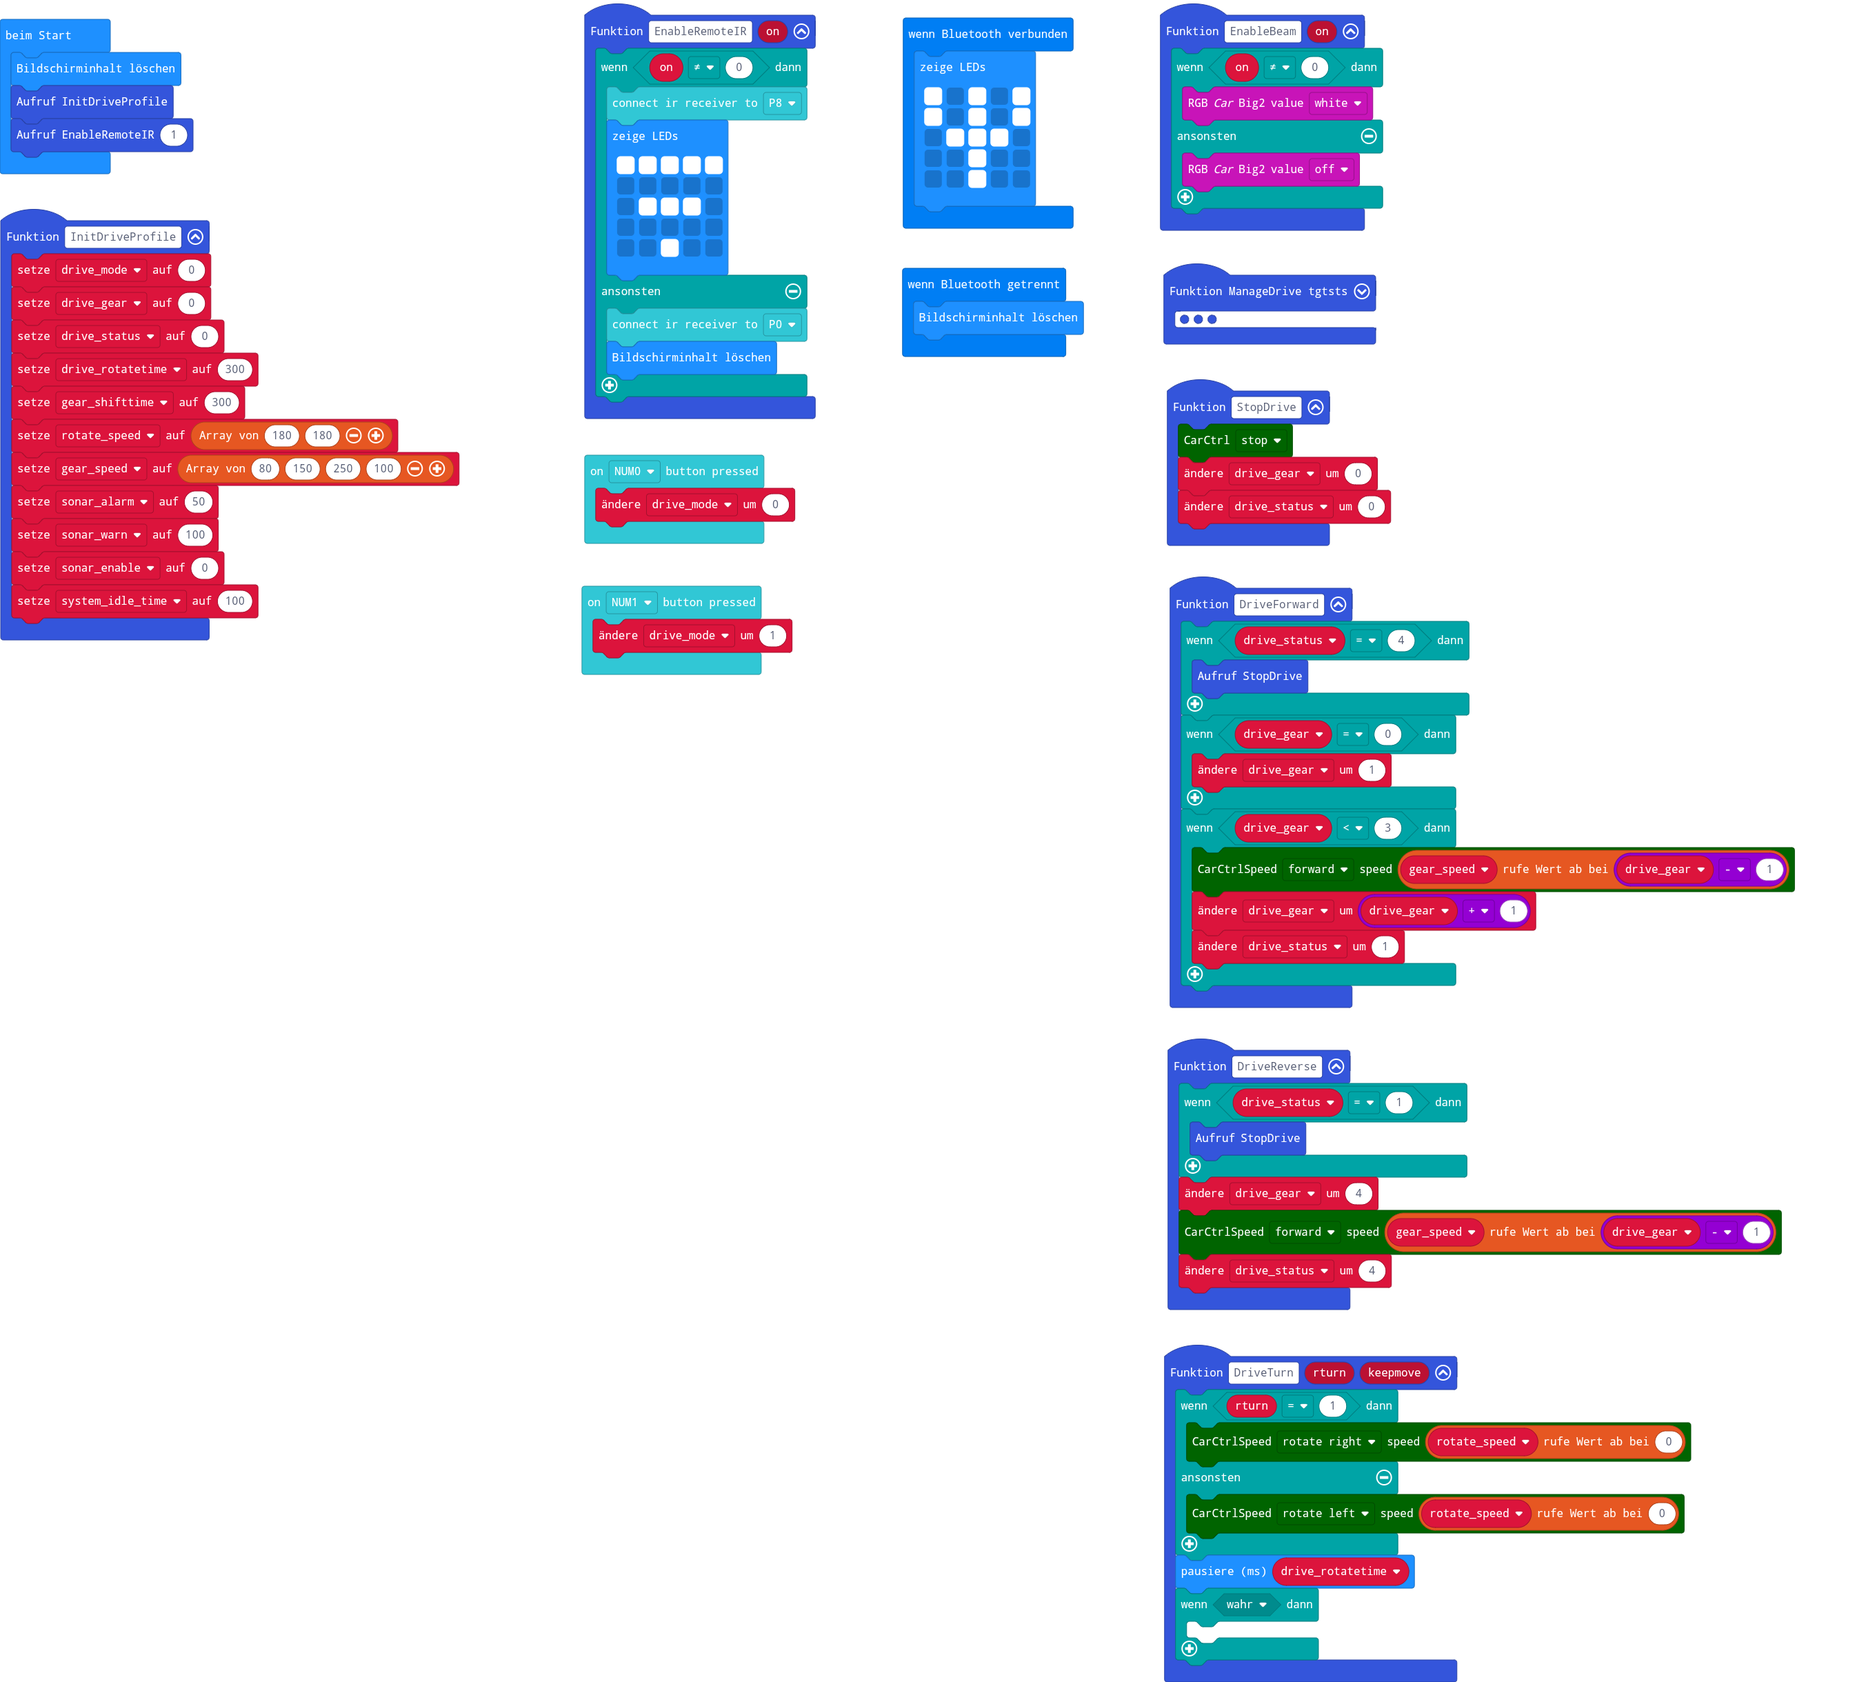
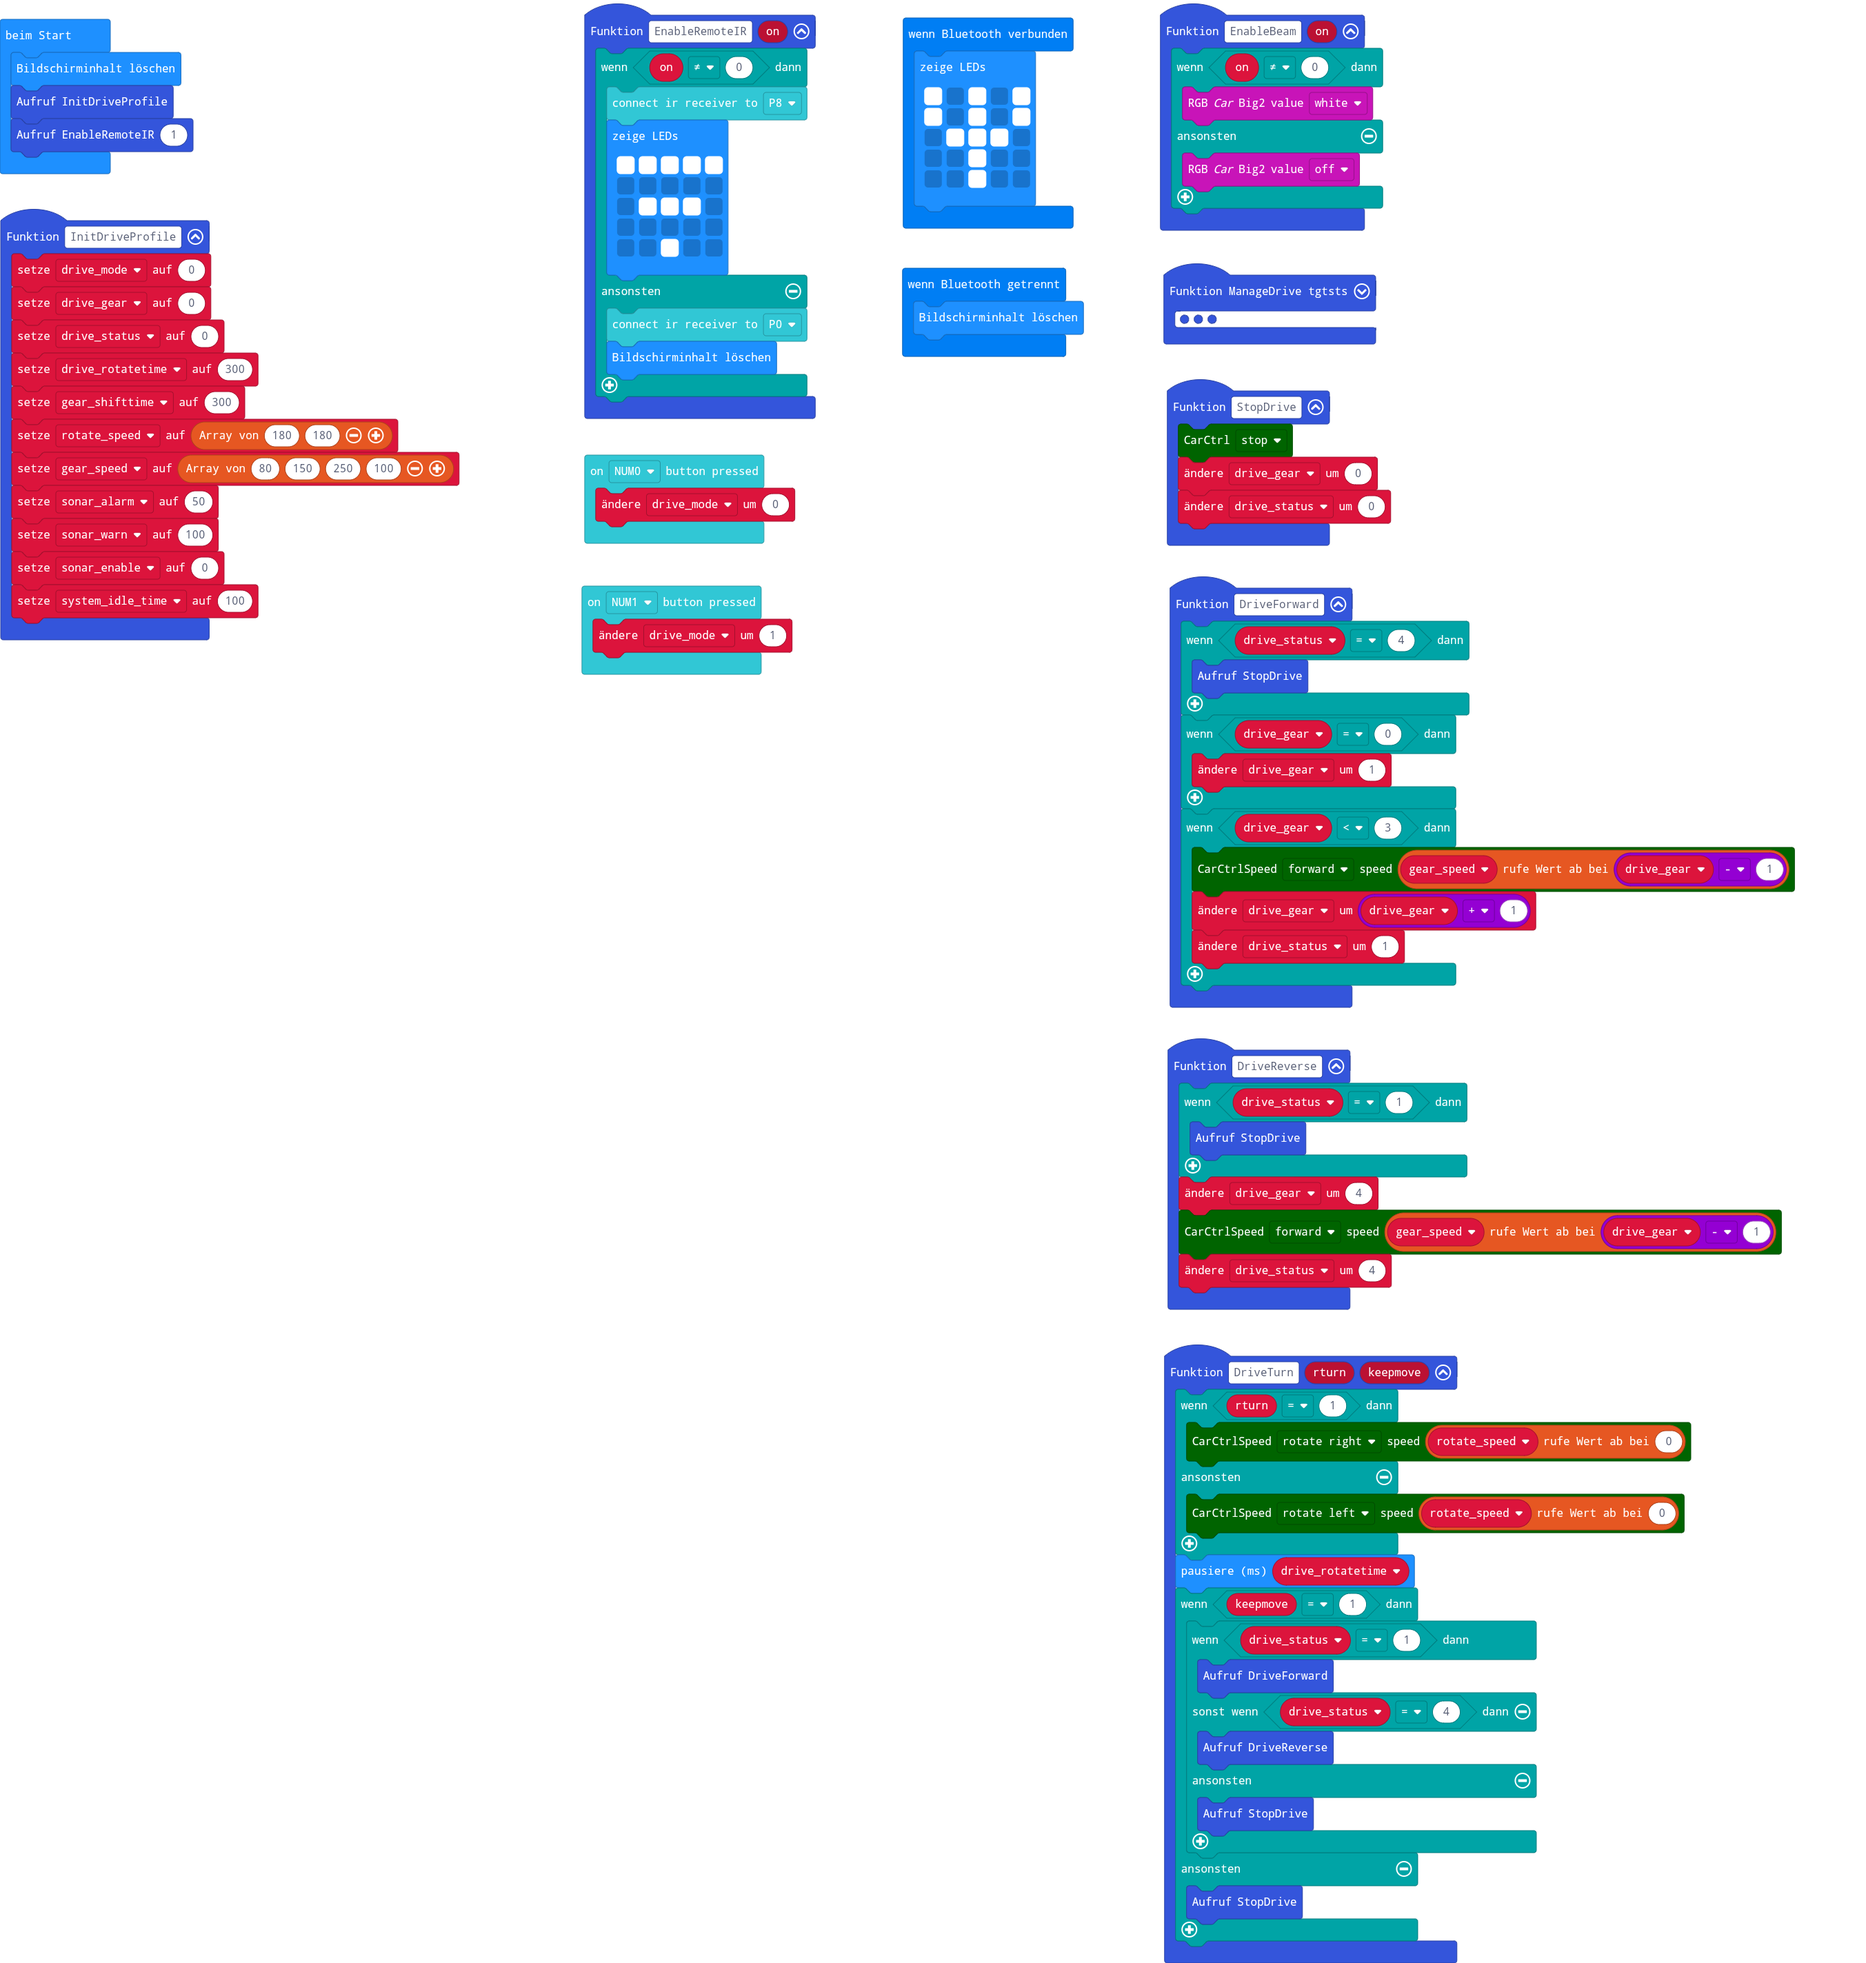
Completed turn command

diff --git a/main.ts b/main.ts
@@ -42,8 +42,16 @@ function DriveTurn (rturn: number, keepmove: number) {
         OSOYOO_Robot.CarCtrlSpeed(OSOYOO_Robot.CarState.Car_SpinLeft, rotate_speed[0])
     }
     basic.pause(drive_rotatetime)
-    if (true) {
-    	
+    if (keepmove == 1) {
+        if (drive_status == 1) {
+            DriveForward()
+        } else if (drive_status == 4) {
+            DriveReverse()
+        } else {
+            StopDrive()
+        }
+    } else {
+        StopDrive()
     }
 }
 function EnableRemoteIR (on: number) {
